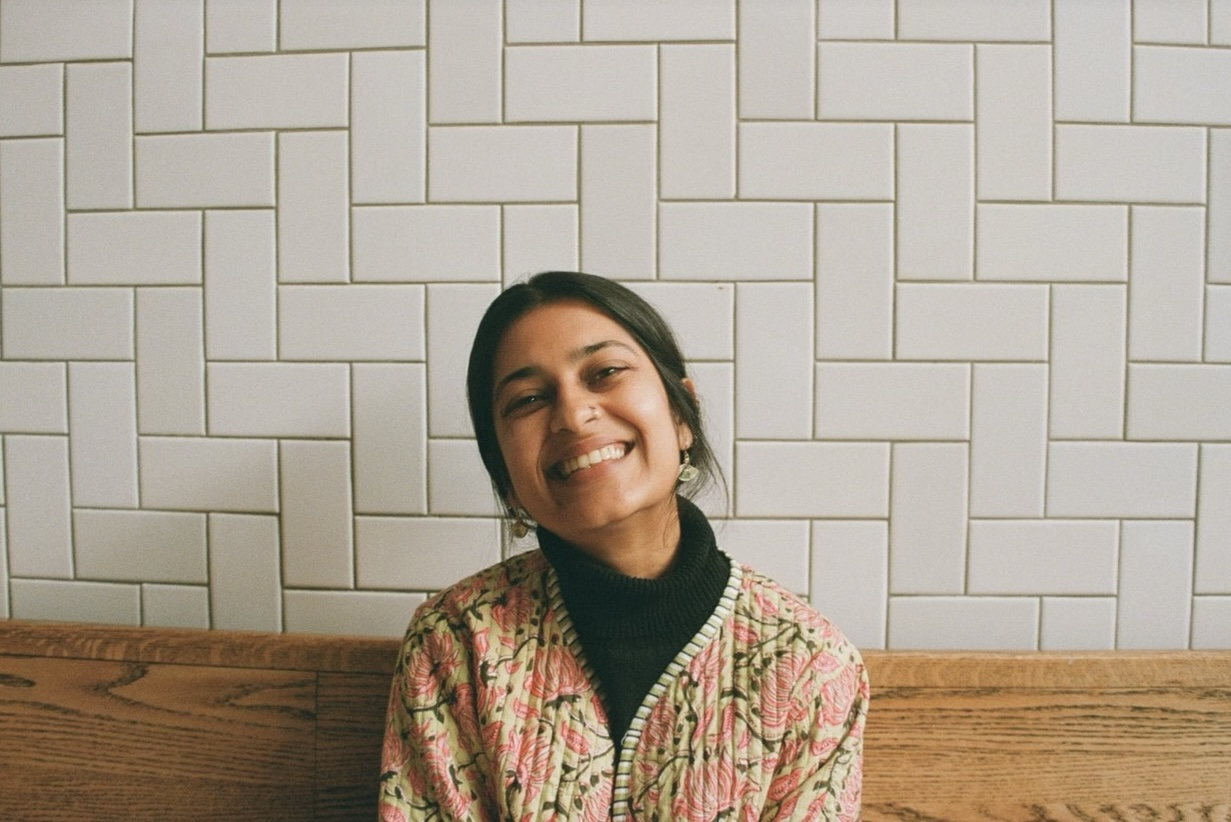
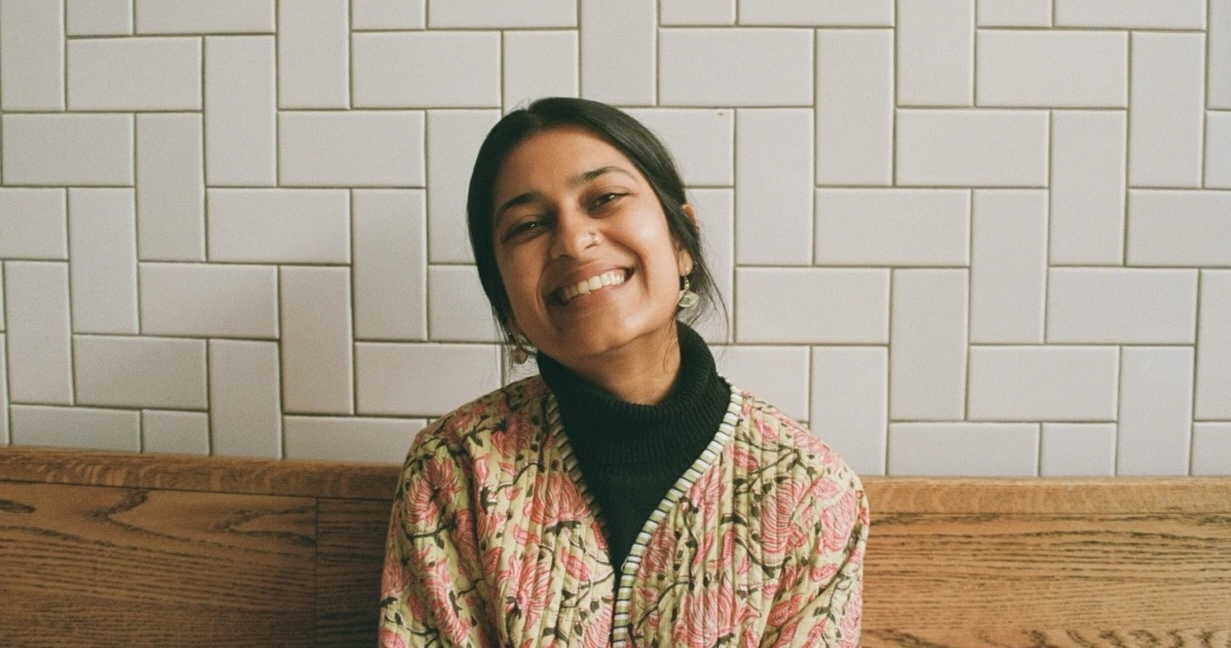
more portfolio changes

diff --git a/src/app/page.tsx b/src/app/page.tsx
@@ -7,50 +7,27 @@ import { work } from "@/lib/work";
 export default function Home() {
   return (
     <>
-      <section className="pt-12 pb-24 sm:pt-16 sm:pb-32">
+      <section className="pt-12 sm:pt-16">
         <Container>
           <div className="grid grid-cols-12 gap-6">
-            <div className="col-span-12 bg-saffron px-8 py-14 sm:px-14 sm:py-20 lg:col-span-10 lg:col-start-1">
+            <div
+                aria-label="Photo of Natasha Oza"
+                className="roundded-full col-span-6 col-start-4 md:col-span-4 md:cofl-start-9 lg:col-start-1 lg:col-span-4 aspect-[5/5] w-full bg-[url(/headshot.jpeg)] bg-cover bg-center border border-hairline"
+              />
+            <div className="col-span-12 bg-saffron px-8 py-14 sm:px-14 sm:py-20 md:col-span-8 lg:col-span-8">
               <p className="font-mono text-kicker uppercase text-ink mb-8">
-                UX research · Mixed methods · Behavioral science
+                UX research · Mixed methods · M.S. Behavioral science
               </p>
               <h1 className="text-h1 font-semibold text-ink max-w-[18ch] sm:text-display-3 lg:text-display-2 xl:text-display-1">
-                I turn complex user behavior into product decisions that stick.
+                I turn complex user behavior into product decisions that stick
               </h1>
-              <p className="mt-8 text-lead text-ink max-w-[55ch]">
-                Seven years across fintech, insurance, and edtech, with a
-                behavioral science lens from UPenn.
-              </p>
+              {/* <p className="mt-8 text-lead text-ink max-w-[55ch]">
+                My research doesn't just inform design decisions; it changes product architecture, shifts engineering roadmaps, and transforms skeptical stakeholders into champions of user research.
+              </p> */}
             </div>
           </div>
         </Container>
       </section>
-
-      <section
-        id="work"
-        className="scroll-mt-24 py-20 sm:py-28"
-      >
-        <Container>
-          <div className="mb-14 flex items-end justify-between gap-6">
-            <div>
-              <p className="font-mono text-kicker uppercase text-ink-soft mb-4">
-                Selected work
-              </p>
-              <h2 className="text-h1 font-semibold text-ink max-w-[20ch] sm:text-display-3">
-                Four case studies. Outcomes first, methods on request.
-              </h2>
-            </div>
-          </div>
-
-          <div className="grid grid-cols-1 gap-10 lg:grid-cols-2 lg:gap-14">
-            {work.map((study, i) => (
-              <CaseStudyCard key={study.slug} study={study} index={i} />
-            ))}
-          </div>
-        </Container>
-      </section>
-
-      <Hairline />
 
       <section className="py-20 sm:py-28">
         <Container>
@@ -60,21 +37,48 @@ export default function Home() {
                 About
               </p>
             </div>
-            <div className="col-span-12 lg:col-span-8">
-              <p className="text-h2 font-medium text-ink leading-snug sm:text-h1 sm:leading-tight">
-                I work where research meets product. I&rsquo;ve embedded with
-                designers, engineers, and PMs at companies that ship to
-                millions, translating qualitative depth into the kind of
-                evidence teams actually trust.
+            <div className="col-span-12 lg:col-span-8 space-y-6">
+              <p className="text-h2 font-medium text-ink leading-snug sm:leading-tight">
+                My research doesn't just inform design decisions; it changes product architecture, shifts engineering roadmaps, and transforms skeptical stakeholders into champions of user research.
               </p>
-              <Link
+              <p className="text-h2 font-medium text-ink leading-snug sm:leading-tight">
+                I’ve spent my career both executing in-depth research, and building the infrastructure that supports it. 
+              </p>
+              <p className="text-h2 font-medium text-ink leading-snug sm:leading-tight">
+              I specialize in translating insights into audience-specific narratives that meet stakeholders where they are.
+              </p>
+
+              {/* <Link
                 href="/about"
                 className="mt-10 inline-flex items-center gap-2 font-mono text-small uppercase tracking-wider text-ink underline underline-offset-4 decoration-hairline hover:decoration-terracotta hover:text-terracotta transition-colors"
               >
                 Read more about me
                 <span aria-hidden="true">→</span>
-              </Link>
+              </Link> */}
             </div>
+          </div>
+        </Container>
+      </section>
+
+      <Hairline />
+
+      <section
+        id="work"
+        className="scroll-mt-24 py-20 sm:py-28"
+      >
+        <Container>
+          <div className="mb-14 flex items-end justify-between gap-6">
+            <div>
+              <h2 className="text-h1 font-semibold text-ink max-w-[20ch] sm:text-display-3">
+                Selected work
+              </h2>
+            </div>
+          </div>
+
+          <div className="grid grid-cols-1 gap-10 lg:grid-cols-2 lg:gap-14">
+            {work.map((study, i) => (
+              <CaseStudyCard key={study.slug} study={study} index={i} />
+            ))}
           </div>
         </Container>
       </section>
@@ -94,17 +98,17 @@ export default function Home() {
             </div>
             <div className="col-span-12 lg:col-span-8">
               <h2 className="text-h1 font-semibold text-ink max-w-[18ch] sm:text-display-3">
-                Have a research problem worth chewing on?
+                I’m always looking to collaborate on something new or grab a coffee!
               </h2>
               <div className="mt-10 flex flex-col gap-4 sm:flex-row sm:gap-10">
                 <a
-                  href="mailto:noza@upenn.edu"
+                  href="mailto:natasha.oza96@gmail.com"
                   className="text-h2 font-medium text-terracotta underline-offset-4 hover:underline transition-colors"
                 >
-                  noza@upenn.edu
+                  natasha.oza96@gmail.com
                 </a>
                 <a
-                  href="https://www.linkedin.com/in/natashaoza/"
+                  href="https://www.linkedin.com/in/natasha-oza/"
                   target="_blank"
                   rel="noopener noreferrer"
                   className="text-h2 font-medium text-terracotta underline-offset-4 hover:underline transition-colors"

diff --git a/src/lib/work.ts b/src/lib/work.ts
@@ -118,13 +118,13 @@ export const work: CaseStudy[] = [
   {
     slug: "coinbase-portfolio",
     title: "Coinbase Pro: Future of the Portfolio Feature",
-    kicker: "Fintech · Coinbase",
+    kicker: "Fintech · Lit Review · Interviews · Kano Analysis",
     role: "User Researcher (intern)",
     duration: "8 weeks",
     team: "2 Product managers, Data scientist, Product designer",
     methods: ["Literature review", "Interviews", "Survey", "Kano analysis"],
     outcome:
-      "The final presented research insights made portfolios top of mind for senior leadership.",
+      "Final presented research insights made portfolios top of mind for senior leadership",
     body: [
       {
         kicker: "Overview",
@@ -379,13 +379,13 @@ export const work: CaseStudy[] = [
   {
     slug: "coinbase-accessibility",
     title: "Coinbase Accessibility",
-    kicker: "Fintech · Accessibility",
+    kicker: "Fintech · Lit review · semi-structured, in-depth Interviews",
     role: "User Researcher (intern)",
     duration: "6 weeks",
     team: "3 Researchers, Accessibility Lead",
     methods: ["Industry & literature review (best practices)", "Interviews"],
     outcome:
-      "Our 25+ insight-based recommendations addressed 8 severity 1 issues identified in the audit and were added to the Coinbase Design System accessibility main page.",
+      "25+ insight-based recommendations were added to the Coinbase Design System accessibility page",
     body: [
       {
         kicker: "Overview",
@@ -553,19 +553,19 @@ export const work: CaseStudy[] = [
   {
     slug: "e-learning",
     title: "Enhancing User Experience on an E-Learning Platform",
-    kicker: "Edtech · X Billion Skills Lab",
-    role: "User Researcher and Product Strategist",
+    kicker: "Edtech · Lit review · Moderated usability tests",
+    role: "User Experience Architect",
     duration: "6 weeks",
     team: "3 Designers, 2 Developers, CEO",
     methods: ["Industry & literature review", "Interviews", "Moderated Usability Test"],
     outcome:
-      "Both of my recommendations were implemented – drastically improving user feedback in the short run and, in the long run along with other iterations, course completion rates.",
-    metric: {
-      from: 5,
-      to: 86,
-      suffix: "%",
-      label: "Completion rate",
-    },
+      "Increased course completion rate from 5% to 86%",
+    // metric: {
+    //   from: 5,
+    //   to: 86,
+    //   suffix: "%",
+    //   label: "Completion rate",
+    // },
     body: [
       {
         kicker: "Overview",
@@ -821,12 +821,11 @@ export const work: CaseStudy[] = [
   },
   {
     slug: "fm-global",
-    title: "Insurance research, under NDA",
-    kicker: "Insurance · NDA",
-    role: "UX researcher",
-    year: "2021",
+    title: "Saving $12M on enterprise software",
+    kicker: "Insurance · Desk research · in-depth interviews",
+    role: "Senior UX researcher",
     outcome:
-      "Mixed-methods study with FM Global. Available on request — see passcode below.",
+      "Research discovery resulted in mid-study pivot and saved 25% on building costs",
     summary:
       "This case study is gated. Enter the passcode you were given to read the full write-up.",
     gated: true,

diff --git a/src/app/about/page.tsx b/src/app/about/page.tsx
@@ -76,9 +76,6 @@ export default function AboutPage() {
                 aria-label="Photo of Natasha Oza (placeholder)"
                 className="aspect-[4/5] w-full bg-[url(/headshot.jpeg)] bg-cover bg-center border border-hairline flex items-center justify-center"
               >
-                <span className="font-mono text-kicker uppercase text-ink-soft ">
-                  {/* <img src="/headshot.jpeg" /> */}
-                </span>
               </div>
             </div>
             <div className="col-span-12 lg:col-span-7 lg:col-start-6 flex flex-col gap-6 text-lead text-ink max-w-[55ch]">
@@ -244,10 +241,10 @@ export default function AboutPage() {
                   Selected work →
                 </Link>
                 <a
-                  href="mailto:noza@upenn.edu"
+                  href="mailto:natasha.oza96@gmail.com"
                   className="text-h2 font-medium text-terracotta underline-offset-4 hover:underline transition-colors"
                 >
-                  noza@upenn.edu
+                  natasha.oza96@gmail.com
                 </a>
               </div>
             </div>

diff --git a/src/components/PasswordGate.tsx b/src/components/PasswordGate.tsx
@@ -60,10 +60,10 @@ export function PasswordGate({ hasError }: PasswordGateProps) {
                 >
                   That passcode didn&rsquo;t match. Try again, or email{" "}
                   <a
-                    href="mailto:noza@upenn.edu"
+                    href="mailto:natasha.oza96@gmail.com"
                     className="underline hover:text-terracotta"
                   >
-                    noza@upenn.edu
+                    natasha.oza96@gmail.com
                   </a>
                   .
                 </p>
@@ -73,7 +73,7 @@ export function PasswordGate({ hasError }: PasswordGateProps) {
             <p className="text-small text-ink-soft max-w-[55ch]">
               Don&rsquo;t have a passcode?{" "}
               <a
-                href="mailto:noza@upenn.edu?subject=FM%20Global%20case%20study%20access"
+                href="mailto:natasha.oza96@gmail.com?subject=FM%20Global%20case%20study%20access"
                 className="text-terracotta underline underline-offset-4 hover:decoration-2 transition-all"
               >
                 Email me

diff --git a/src/components/Footer.tsx b/src/components/Footer.tsx
@@ -10,14 +10,14 @@ export function Footer() {
         </p>
         <p className="font-mono text-kicker uppercase text-ink-soft">
           <a
-            href="mailto:noza@upenn.edu"
+            href="mailto:natasha.oza96@gmail.com"
             className="hover:text-terracotta transition-colors"
           >
-            noza@upenn.edu
+            natasha.oza96@gmail.com
           </a>
           <span className="mx-3 text-hairline">·</span>
           <a
-            href="https://www.linkedin.com/in/natashaoza/"
+            href="https://www.linkedin.com/in/natasha-oza/"
             target="_blank"
             rel="noopener noreferrer"
             className="hover:text-terracotta transition-colors"

diff --git a/src/components/CaseStudyView.tsx b/src/components/CaseStudyView.tsx
@@ -181,12 +181,10 @@ function BodyBlock({ block }: { block: ContentBlock }) {
       );
 
     case "callout": {
-      const emoji = block.variant === "challenge" ? "⚒" : "🚀";
       const label = block.variant === "challenge" ? "Challenge" : "Learning";
       return (
         <aside className="border-l-4 border-terracotta bg-cream-soft px-6 py-5 max-w-[60ch] flex flex-col gap-3">
           <p className="font-mono text-kicker uppercase text-terracotta tracking-wider">
-            <span aria-hidden="true">{emoji} </span>
             {label}
           </p>
           <p className="text-body text-ink leading-relaxed">{block.text}</p>

diff --git a/src/components/Nav.tsx b/src/components/Nav.tsx
@@ -4,7 +4,7 @@ import { Container } from "./Container";
 const links = [
   { label: "Work", href: "/#work", external: false },
   { label: "About", href: "/about", external: false },
-  { label: "Resume", href: "/resume.pdf", external: true },
+  { label: "Resume", href: "https://drive.google.com/file/d/1cwFitapr33Wyhw7VkFnQf3iYhqPaoy-U/view?usp=sharing", external: true },
   { label: "Contact", href: "/#contact", external: false },
 ] as const;
 
